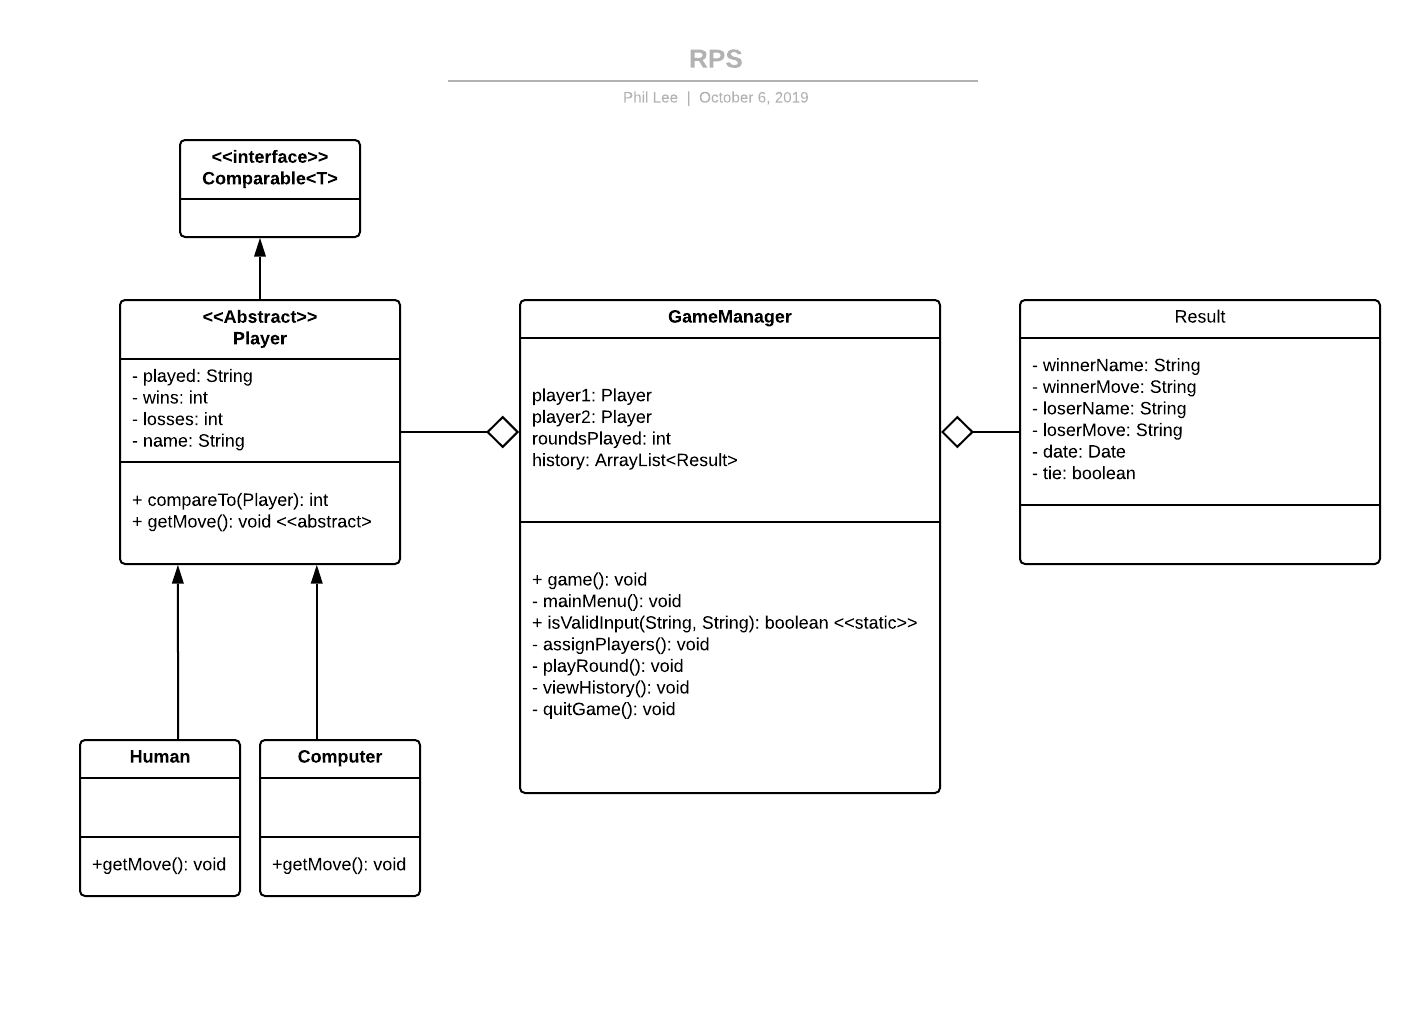
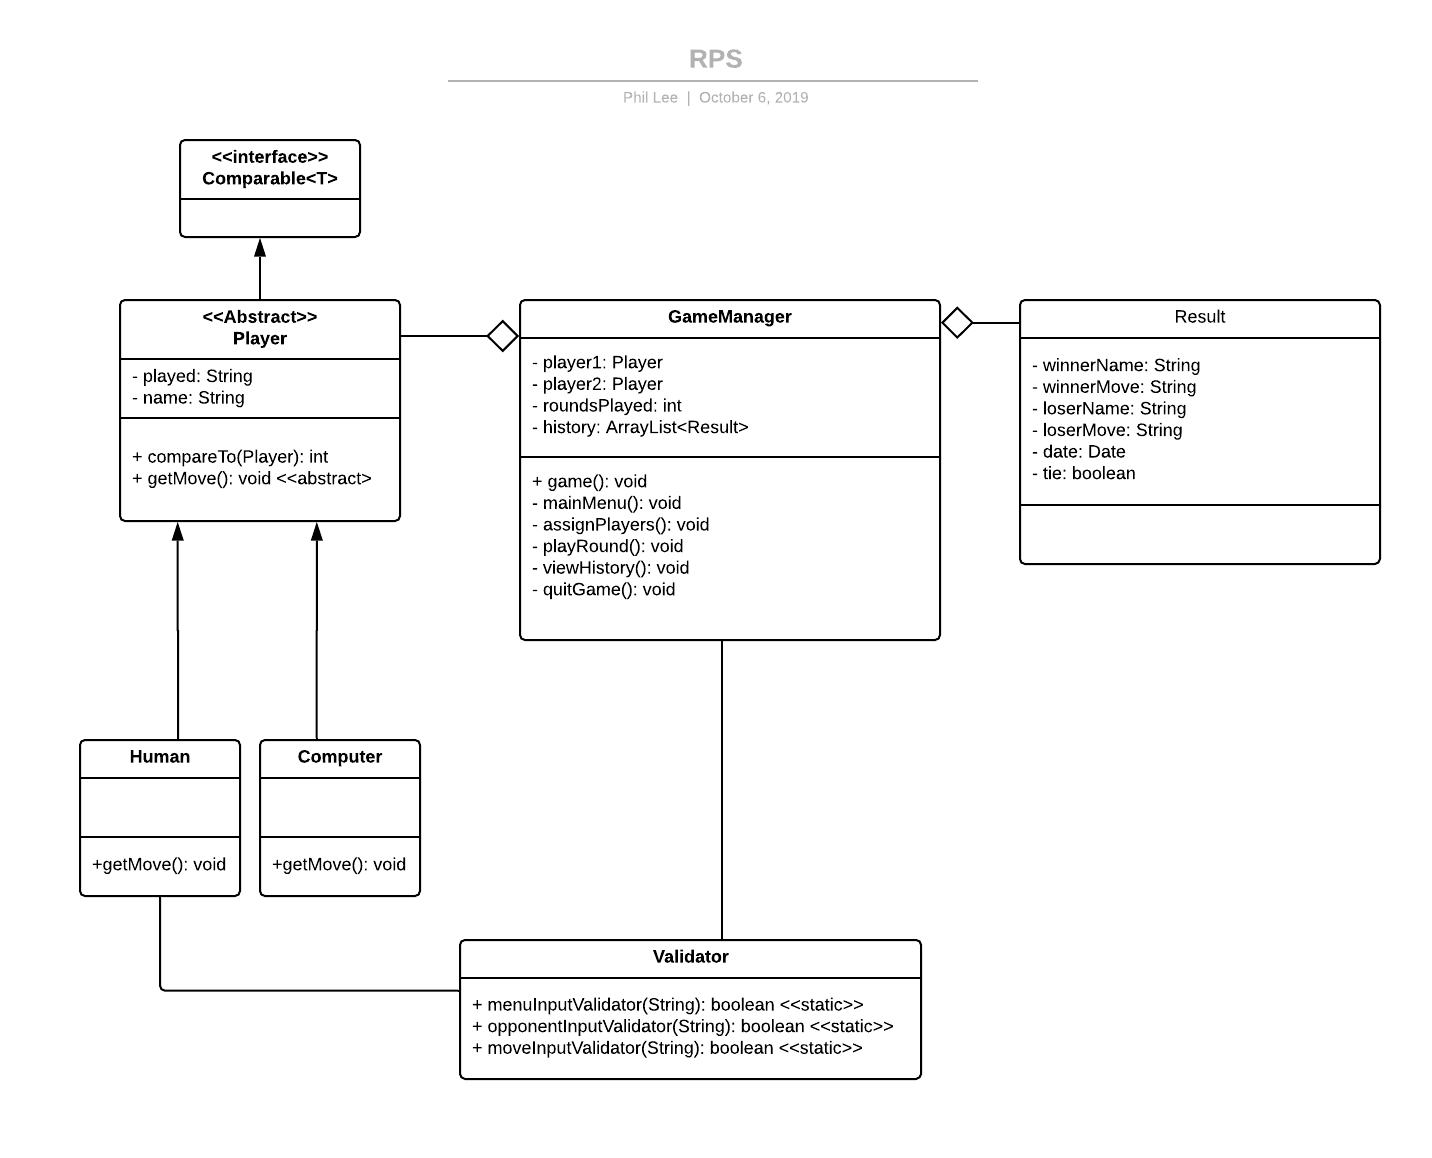
added Validator class, updated readme

diff --git a/src/com/company/GameManager.java b/src/com/company/GameManager.java
@@ -15,13 +15,11 @@ public class GameManager {
     int roundsPlayed;
     Scanner scanner;
 
-
     public GameManager(){
         this.player1 = new Human("Player One");
         this.player2 = null;
         this.roundsPlayed = 0;
         this.scanner = new Scanner(System.in);
-        this.history = new ArrayList<Result>();
     }
 
     /**
@@ -35,6 +33,7 @@ public class GameManager {
             menuInput = mainMenu();
 
             if(menuInput.equalsIgnoreCase("quit")){
+                quitGame();
                 break;
             }
             else if(menuInput.equalsIgnoreCase("play")){
@@ -50,11 +49,11 @@ public class GameManager {
     /**
      * Load the main menu where user will select which option to pick
      * Continuously reload until a valid input is received
-     * @return the user input
+     * @return a valid menu input
      */
     private String mainMenu(){
         String userInput = "";
-        while(!isValidInput("MENU", userInput)){
+        while(!Validator.menuInputValidator(userInput)){
             System.out.println("MAIN MENU\n========");
             System.out.println("1. Type 'play' to play.");
             System.out.println("2. Type 'history' to view your game history.");
@@ -66,44 +65,14 @@ public class GameManager {
         return userInput;
     }
 
-    /**
-     * Helper method to check the validity of various user inputs
-     * @param type - the type of user input we can to check, validity check will differ by types ("MENU", "OPPONENT", "MOVE")
-     * @param input - user input from menu option
-     * @return true if valid option, false otherwise
-     */
-     //TODO make the valid type an ENUM
-    public static boolean isValidInput(String type,String input){
-        if(type.equals("MENU")){
-            return (
-                    input.equalsIgnoreCase("play") ||
-                    input.equalsIgnoreCase("history") ||
-                    input.equalsIgnoreCase("quit")
-                    );
-        }
-        else if(type.equals("OPPONENT")){
-            return (input.equalsIgnoreCase("player") || input.equalsIgnoreCase("computer"));
-        }
-        else if(type.equals("MOVE")){
-            return ( input.equalsIgnoreCase("Rock") ||
-                            input.equalsIgnoreCase("Paper") ||
-                            input.equalsIgnoreCase("Scissor")
-                    );
-        }
-        else{
-            System.out.println("Incorrect Type Entered");
-            return false;
-        }
-    }
-
-    /**
+     /**
      * Ask the user to choose computer or player as an opponent
      * Continuously reload until a valid input is given
      */
     // TODO: currently assigning a generic name for players - update to ask for player name
     private void assignPlayers(){
         String userInput = "";
-        while(!isValidInput("OPPONENT", userInput)){
+        while(!Validator.opponentInputValidator(userInput)){
             System.out.println("1. Type 'player' to vs another player");
             System.out.println("2. Type 'Computer' to vs a Computer\n");
             System.out.print("Enter here: ");
@@ -134,25 +103,42 @@ public class GameManager {
 
     /**
      * Print out history of games played during session
-     * Made use of stream and lambda expression
+     * Made use of stream and lambda expression, and try-catch-finally
      */
     private void viewHistory(){
-        System.out.println("HISTORY\n========");
-        List<String> printResult = history.stream()
-                .map(res -> {
-                    if(res.isTie()){
-                        return String.format("TIE. %s played %s and %s played %s",
-                                res.getWinner(), res.getWinnerMove(), res.getLoser(), res.getLoserMove());
-                    }
-                    else{
-                        return String.format("%s WINS. %s played %s and %s played %s",
-                                res.getWinner(), res.getWinner(), res.getWinnerMove(), res.getLoser(), res.getLoserMove());
-                    }
-                })
-                .collect(Collectors.toList());
+        try{
+            if(this.history == null) throw new NullPointerException();
+        }catch(NullPointerException e){
+            this.history = new ArrayList<Result>();
+        }finally{
+            System.out.println("HISTORY\n========");
+        }
 
-        printResult.forEach(result-> System.out.println(result));
+        if(this.history.size() != 0){
+            List<String> printResult = history.stream()
+                    .map(res -> {
+                        if(res.isTie()){
+                            return String.format("TIE. %s played %s and %s played %s",
+                                    res.getWinner(), res.getWinnerMove(), res.getLoser(), res.getLoserMove());
+                        }
+                        else{
+                            return String.format("%s WINS. %s played %s and %s played %s",
+                                    res.getWinner(), res.getWinner(), res.getWinnerMove(), res.getLoser(), res.getLoserMove());
+                        }
+                    })
+                    .collect(Collectors.toList());
+
+            printResult.forEach(result-> System.out.println(result));
+        }
         System.out.println();
+    }
+
+    /**
+     * Wrap up any necessary tasks needed
+     */
+    private void quitGame(){
+        scanner.close();
+
     }
 
     /**
@@ -165,6 +151,13 @@ public class GameManager {
         String res = "";
         Date date = new Date();
         //player 1 wins
+
+        try{
+            if(this.history == null) throw new NullPointerException();
+        }catch(NullPointerException e) {
+            this.history = new ArrayList<Result>();
+        }
+
         if(result > 0){
             res = player1.getName() + " wins!";
             history.add(new Result(player1.getName(),player1.getPlayed(), player2.getName(),player2.getPlayed(),date, false));

diff --git a/src/com/company/Validator.java b/src/com/company/Validator.java
@@ -1,0 +1,39 @@
+package com.company;
+
+public class Validator {
+
+    /**
+     * Validator to check if user input for menu option is valid
+     * @param input user input
+     * @return true if input is 'play', 'history', or 'quit' (case insensitive)
+     */
+    public static boolean menuInputValidator(String input){
+        return (
+                input.equalsIgnoreCase("play") ||
+                        input.equalsIgnoreCase("history") ||
+                        input.equalsIgnoreCase("quit")
+        );
+    }
+
+    /**
+     * Validator to check if user input for opponent is valid
+     * @param input user input
+     * @return true if user inputs 'player' or 'computer' (case insensitive)
+     */
+    public static boolean opponentInputValidator(String input) {
+        return (input.equalsIgnoreCase("player") || input.equalsIgnoreCase("computer"));
+    }
+
+    /**
+     * Validator to check if user input for move is valid
+     * @param input user input
+     * @return true if user inputs 'rock', 'paper', or 'scissor' (case insensitive)
+     */
+    public static boolean moveInputValidator(String input){
+        return ( input.equalsIgnoreCase("Rock") ||
+                input.equalsIgnoreCase("Paper") ||
+                input.equalsIgnoreCase("Scissor")
+        );
+    }
+
+}

diff --git a/src/com/company/Human.java b/src/com/company/Human.java
@@ -17,7 +17,7 @@ public class Human extends Player{
         super.setPlayed("");
 
         // loop until a valid move is given
-        while(!GameManager.isValidInput("MOVE", super.getPlayed())){
+        while(!Validator.moveInputValidator(super.getPlayed())){
             System.out.print(super.getName() + ", pick a move (Rock, Paper, Scissor): ");
             super.setPlayed(scanner.nextLine());
         }

diff --git a/README.md b/README.md
@@ -5,3 +5,38 @@
 ## Class Diagram
 
 ![alt text](img/RPC.png "class-diagram")
+
+## Technical Requirements
+
+**1) Use classes to remove repetitive parts of code, and create an abstract Player class to manage the state of the player (if they won or lost, how many points they have, what move they made).**
+
+Application has been developed using Object Oriented Principles, refer to the class diagram above.
+
+
+**2) Handle invalid user input.**
+
+A static Validator class was used to handle all input validation.
+
+**3) Handle incorrect capitalization of otherwise valid user input ("rock," "Rock," "RoCk," "ROCK," and more).**
+
+Refer to the Validator.moveInputValidator() method.
+
+**4) Each class (including a Player class) should have methods associated with it and be instantiated as an object (as opposed to a singleton or an interface).**
+
+All methods are associated with a class. The GameManager is the primary class running the game, the main method will only call GameManager.game(), which will use various helper methods to run the game.
+
+**5) Use public, private, and static variables, methods, and members within each class appropriately.**
+
+Refer to the class diagram above.
+
+**6) Incorporate exception handling to make sure your game crashes gracefully if it receives bad input.**
+
+try-catch-finally was used to determine if the game history list was null prior to printing out the result or adding to it. If the list was null, the catch block will initialize a new list.
+
+**7) Get standard input with Java using a Scanner, or use Processing to get mouse, keyboard, or other input.**
+
+Scanner was used to retrieve user input and scanner was closed once the user inputs 'quit' during the main menu.
+
+**8) Use arrays or array lists to store game history (if applicable).**
+
+ArrayList was utilized to keep track of the game history.
